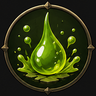
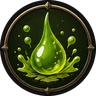
Détoure les médaillons de dégâts et redresse les angles dorés
Deux défauts d'image, l'un signalé, l'autre trouvé en cherchant le
premier.

Les treize médaillons de type de dégâts étaient enregistrés en RGB, sans
canal alpha : chacun trimballait le carré noir sur lequel il avait été
dessiné. Sur une carte, ça se voyait comme une vignette collée plutôt
qu'un médaillon posé.

Détourés au masque circulaire, pas par couleur de fond : mesure faite,
les treize sont des disques centrés de rayon 47,5 sur 96 px, et un
détourage par proximité de couleur aurait rongé les parties sombres de
chaque dessin — la robe du crâne, l'ombre sous le métal. Le masque est
suréchantillonné quatre fois avant réduction, pour un bord sans escalier.
Vérifié sur fond CLAIR, où la moindre frange se verrait.

Les quatre angles ornés de l'écran de montée de niveau, eux, tournaient
le dos à leur coin. Le dessin est un coin HAUT-DROIT — son coude est en
haut à droite, un bras part vers la gauche, l'autre vers le bas — mais le
code le posait sans miroir en haut à GAUCHE, donc les quatre étaient
retournés. Les miroirs sont inversés en conséquence. Le PNG est aussi
recadré sur son dessin : il portait une marge transparente de 9 à 24 px
qui l'écartait encore de son angle.

Claude-Session: https://claude.ai/code/session_01DJVJHG2G6wK3CcS9EGerhK

diff --git a/src/ui/LevelUpCelebration.tsx b/src/ui/LevelUpCelebration.tsx
@@ -47,7 +47,9 @@ export function LevelUpCelebration({ nom, theme, niveau, gains, onContinuer }: {
 }) {
   const coin = (style: React.CSSProperties, retard: number) => (
     <img
-      src={cornerOrnament} alt="" aria-hidden width={68} height={71}
+      // Dimensions du PNG recadré sur son dessin : il portait une large marge
+      // transparente qui l'écartait de son coin.
+      src={cornerOrnament} alt="" aria-hidden width={71} height={61}
       className="jg-anim-rise"
       style={{
         position: 'absolute', opacity: 0.85, pointerEvents: 'none',
@@ -75,10 +77,16 @@ export function LevelUpCelebration({ nom, theme, niveau, gains, onContinuer }: {
         } as React.CSSProperties,
       }}
     >
-      {coin({ top: 14, left: 14 }, TEMPS.coins)}
-      {coin({ top: 14, right: 14, transform: 'scaleX(-1)' }, TEMPS.coins + 70)}
-      {coin({ bottom: 14, left: 14, transform: 'scaleY(-1)' }, TEMPS.coins + 140)}
-      {coin({ bottom: 14, right: 14, transform: 'scale(-1, -1)' }, TEMPS.coins + 210)}
+      {/*
+        L'image est dessinée pour le coin HAUT-DROIT : son coude est en haut à
+        droite, un bras part vers la gauche, l'autre vers le bas. C'est donc
+        elle qui ne porte pas de miroir, et les trois autres qui en portent.
+        L'inverse était fait, et les volutes tournaient le dos à leur coin.
+      */}
+      {coin({ top: 14, left: 14, transform: 'scaleX(-1)' }, TEMPS.coins)}
+      {coin({ top: 14, right: 14 }, TEMPS.coins + 70)}
+      {coin({ bottom: 14, left: 14, transform: 'scale(-1, -1)' }, TEMPS.coins + 140)}
+      {coin({ bottom: 14, right: 14, transform: 'scaleY(-1)' }, TEMPS.coins + 210)}
 
       <div
         className="lbl jg-anim-rise"
